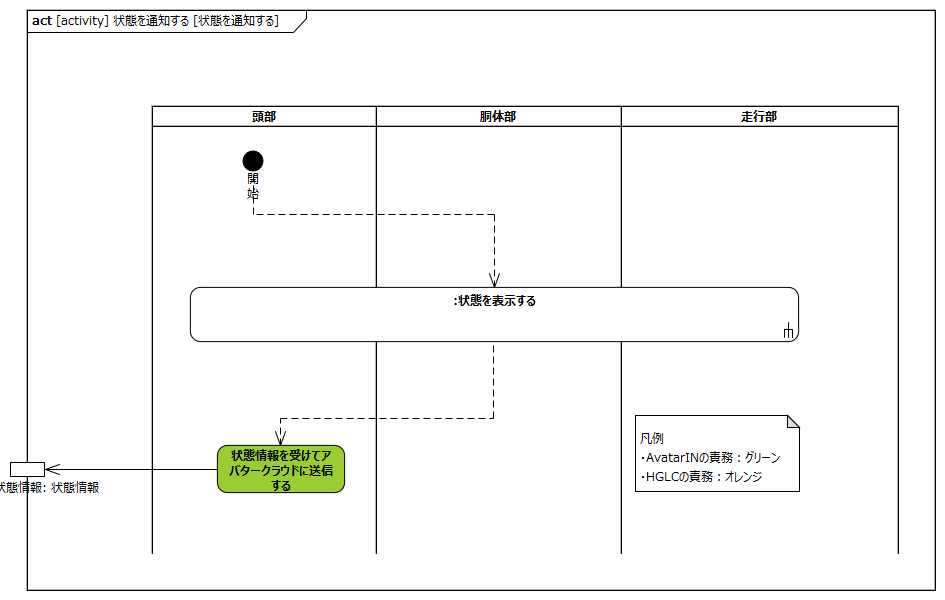
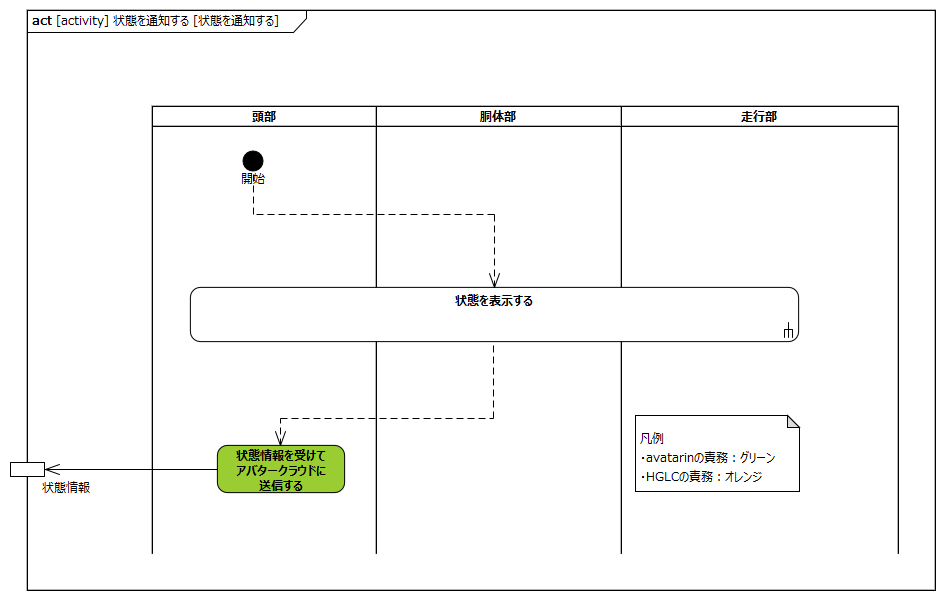
”状態を表示する”/"状態を通知する"のL2要求記述対応 ・mdの追加およびL2アクティビティ図画像追加 ・「状態を通知する」のL1アクティビティ図の画像修正（パラメータの型非表示）

diff --git a/requirements/display_status.md b/requirements/display_status.md
@@ -1,0 +1,127 @@
+---
+title: テレプレゼンスロボット要求分析
+subtitle: 「SysRS-12:状態を表示する」のL2要求抽出
+author: 株式会社 豆蔵
+date: 2021年12月21日
+---
+<!-- ↑表紙ページのための情報 -->
+
+<div style="page-break-before:always"></div>
+
+# はじめに
+
+## 本書の目的
+
+本書の目的は、USDMによる要求記述のため、テレプレゼンスロボット本体のL0要求「SysRS-12:状態を表示する」のL1要求分析結果に基づき、HGLCが担当するL1要求に対してL2要求を抽出することである。
+
+## 適用
+
+本要件の適用対象は、テレプレゼンスロボット とする。
+
+## 用語の定義
+
+|用語|説明|
+|:---|:---|
+|特に無し|---|
+
+## 関連資料
+
+|資料名|説明|
+|:---|:---|
+|テレプレゼンスロボット要求一覧&USDM.xlsx|本文書の要求分析結果をまとめ、USDMの形式で記述したファイル|
+|機能干渉マトリクス.xlsx|本文書の要求分析および今後の仕様化を進める際に検討が必要な機能干渉についてマトリクス表で整理を行ったファイル|
+|テレプレゼンスロボット要求分析.docx|テレプレゼンスロボット本体のL0/L1要求分析についての検討過程を記述したファイル|
+
+
+<div style="page-break-before:always"></div>
+
+# L2要求分析
+
+「SysRS-12:状態を表示する」のアクティビティ図を以下に示す。
+
+
+
+![](.images/activity/display_status.png)
+
+上記L0のアクティビティ図のアクション/デシジョン等から導出された胴体部・走行部のL1要求に対するL2要求分析を行う。  
+※頭部に対してはavatarin側の責務のため、本書では対象外とする。
+
+<div style="page-break-before:always"></div>
+
+## 頭部は状態の変化を検知したら走行部に状態情報を送信する
+
+avatarin側の責務のため、対象外とする。
+
+<div style="page-break-before:always"></div>
+
+## 胴体部は状態の変化を検知したら走行部に状態情報を送信する
+
+![](.images/activity/display_status/body-act01.png)
+
+**L2要求抽出**
+
+|要求|備考|
+|:---|:---|
+|垂直モータは異常を検知し頭部に通知する|※1|
+|水平モータは異常を検知し頭部に通知する|※1|
+
+※1:異常は頭部側で過電流・過電圧を検出する想定。
+
+<div style="page-break-before:always"></div>
+
+## 胴体部はステータスを表示する
+
+![](.images/activity/display_status/body-act02.png)
+
+**L2要求抽出**
+
+|要求|備考|
+|:---|:---|
+|表示（LED等）は走行部からの表示指示に従い表示制御する|表示指示はLED制御信号の想定。LEDには、白/赤/青/緑/黄/橙の点灯/点滅(早)/点滅(遅)を指示可能なこと|
+
+
+<div style="page-break-before:always"></div>
+
+## 走行部は状態の変化を検知したら走行部に状態情報を送信する
+
+![](.images/activity/display_status/act01.png)
+
+
+**L2要求抽出**
+
+|要求|備考|
+|:---|:---|
+|Miimo Main ECUは走行部内の状態の変化を検知する|※1|
+
+※1:走行部で検知する状態変化は、以下を想定
+|状態変化|対応する要求|
+|:---|:---|
+|起動処理の開始/終了|SysRS-01:起動する|
+|ドッキング/リリース動作の開始/終了|SysRS-03:遠隔で操作する|
+|一時停止|SysRS-06:一時停止する|
+|一時停止解除|SysRS-07:一時停止を解除する|
+|バッテリ残量の閾値超え/回復|SysRS-10:バッテリ残量低下を検知し停止する<br/>SysRS-16:充電する|
+|走行部内異常(Fault/Warning/Caution)発生|SysRS-11:異常を検知し停止する|
+|終了処理の開始/終了|SysRS-15:シャットダウンする|
+|充電ステーションON/OFF検知|SysRS-16:充電する|
+および、テスト中/リプロ中の開始/終了
+
+
+
+<div style="page-break-before:always"></div>
+
+## 走行部は各部から状態の変化を受信しステータスを決定する
+
+![](.images/activity/display_status/act02.png)
+
+
+**L2要求抽出**
+
+|要求|備考|
+|:---|:---|
+|Miimo Main ECUは優先順位に応じて胴体部への表示指示を行う|※1|
+|Miimo Main ECUは優先順位に応じて頭部への状態通知を行う|※1|
+※1:優先順位はL0/L1分析資料のSysRS-12参照。
+
+<div style="page-break-before:always"></div>
+

diff --git a/requirements/notify_status.md b/requirements/notify_status.md
@@ -1,0 +1,55 @@
+---
+title: テレプレゼンスロボット要求分析
+subtitle: 「SysRS-13:状態を通知する」のL2要求抽出
+author: 株式会社 豆蔵
+date: 2021年12月21日
+---
+<!-- ↑表紙ページのための情報 -->
+
+<div style="page-break-before:always"></div>
+
+# はじめに
+
+## 本書の目的
+
+本書の目的は、USDMによる要求記述のため、テレプレゼンスロボット本体のL0要求「SysRS-13:状態を通知する」のL1要求分析結果に基づき、HGLCが担当するL1要求に対してL2要求を抽出することである。
+
+## 適用
+
+本要件の適用対象は、テレプレゼンスロボット とする。
+
+## 用語の定義
+
+|用語|説明|
+|:---|:---|
+|特に無し|---|
+
+## 関連資料
+
+|資料名|説明|
+|:---|:---|
+|テレプレゼンスロボット要求一覧&USDM.xlsx|本文書の要求分析結果をまとめ、USDMの形式で記述したファイル|
+|機能干渉マトリクス.xlsx|本文書の要求分析および今後の仕様化を進める際に検討が必要な機能干渉についてマトリクス表で整理を行ったファイル|
+|テレプレゼンスロボット要求分析.docx|テレプレゼンスロボット本体のL0/L1要求分析についての検討過程を記述したファイル|
+
+
+<div style="page-break-before:always"></div>
+
+# L2要求分析
+
+「SysRS-13:状態を通知する」のアクティビティ図を以下に示す。
+
+
+
+![](.images/activity/notify_status.png)
+
+上記L0のアクティビティ図のアクション/デシジョン等から導出された胴体部・走行部のL1要求に対するL2要求分析を行う。  
+※頭部に対してはavatarin側の責務のため、本書では対象外とする。
+
+<div style="page-break-before:always"></div>
+
+## 頭部は状態情報を受けてアバタークラウドに送信する
+
+avatarin側の責務のため、対象外とする。
+
+<div style="page-break-before:always"></div>

diff --git a/requirements/requirement.md b/requirements/requirement.md
@@ -2,7 +2,7 @@
 title: テレプレゼンスロボット要求分析
 subtitle: L0/L1要求抽出
 author: 株式会社 豆蔵
-date: 2021年12月08日
+date: 2021年12月21日
 ---
 <!-- ↑表紙ページのための情報 -->
 
@@ -1659,7 +1659,7 @@ YES動作コマンドは首垂直動作に依存し、NO動作コマンドは首
 
 テレプレゼンスロボットの状態を本体のステータスランプに表示する
 
-**2021年10月27日現在**想定されるステータスは、以下の通り
+**2021年12月21日現在**想定されるステータスは、以下の通り
 
 |状態|LED点灯パターン|
 |:---|:---|
@@ -1667,21 +1667,20 @@ YES動作コマンドは首垂直動作に依存し、NO動作コマンドは首
 |起動|青点滅(遅)|
 |終了|青点滅(遅)|
 |Fault|赤点灯|
-|Warning|橙点滅(早)|
+|Warning1|橙点滅(早)|
+|Warning2|橙点灯|
 |Caution|黄点滅(早)|
 |リリース待ち|青点滅(早)|
-|充電中|橙点灯|
+|充電中|緑点滅(遅)|
 |充電完了|緑点灯|
 |一時停止|青点滅(早)|
-|リリース動作|白点灯|
-|ドッキング動作|白点灯|
+|リリース動作|青点灯|
+|ドッキング動作|青点灯|
 |遠隔操作|青点灯|
-※並び順が上の状態の表示を優先
-
-|以下の情報もLEDで表示するか検討中|
-|:---|
-|リプロ|
-|テスト|
+|---|---|
+|リプロ|白色点灯|
+|テスト|青、赤、緑の点灯を2秒ごとに行う|
+※並び順が上の状態の表示を優先（リプロ、テストはTBD）
 
 
 **テレプレゼンスロボット内部の処理**
